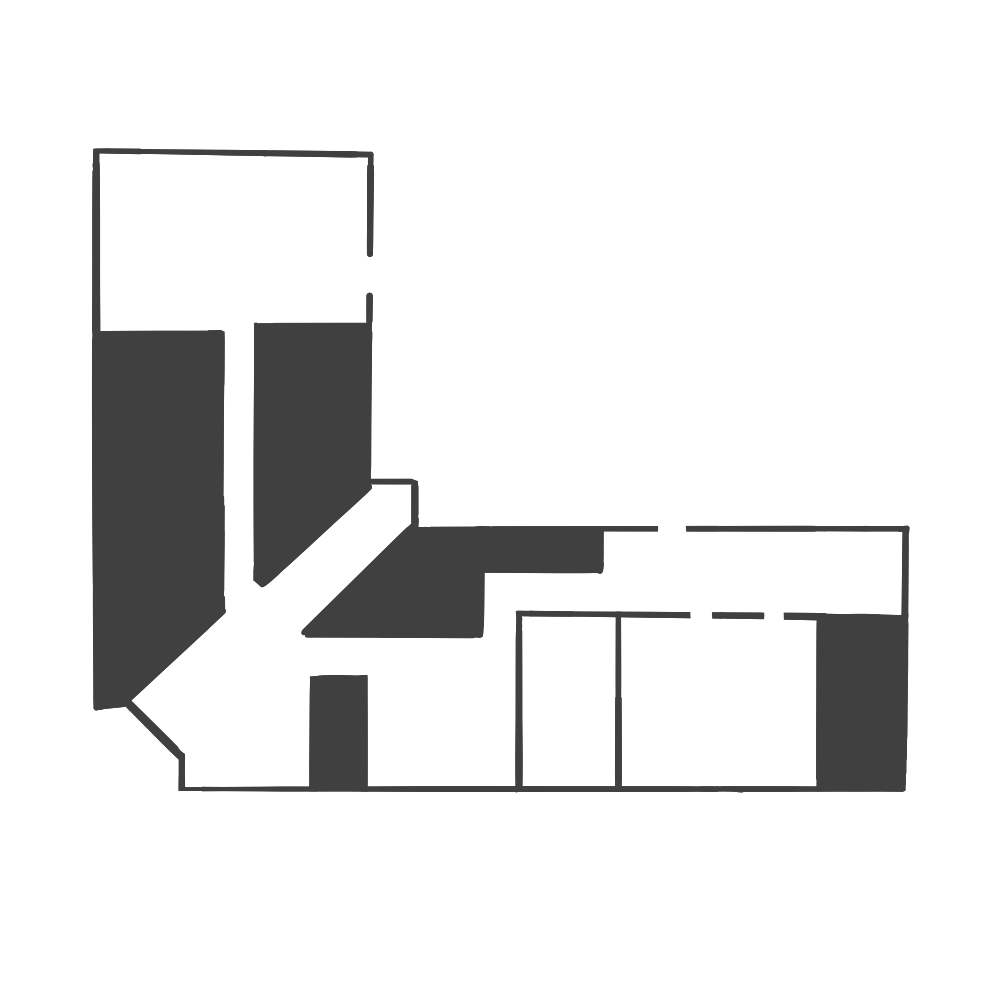
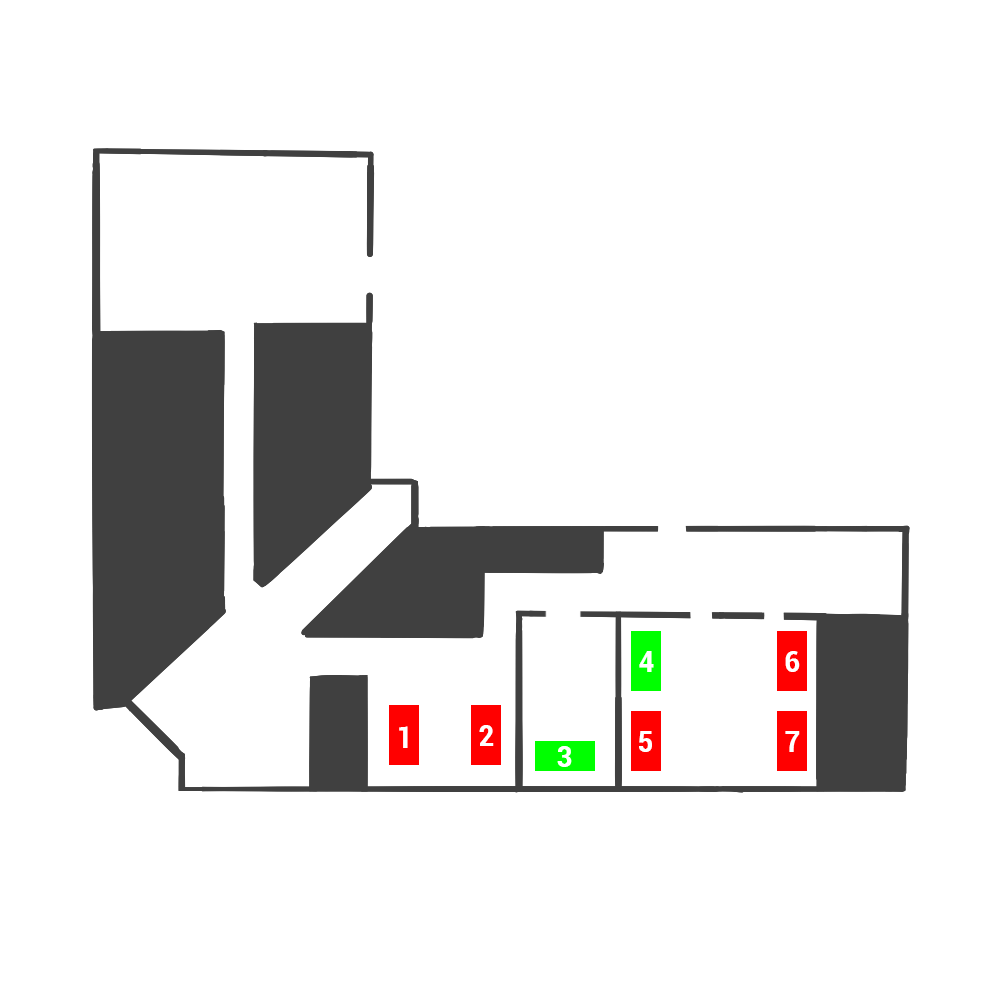
update working sensors

diff --git a/web/src/components/Map.js b/web/src/components/Map.js
@@ -10,7 +10,10 @@ export default class Map extends React.Component {
 		super(props);
 		this.state = {
 			path: null,
-			data: null
+			num1: null,
+			num2: null,
+			num3: null,
+			num4: null
 		};
 		this.onChange = this.onChange.bind(this);
 		this.onAnalize = this.onAnalize.bind(this);
@@ -28,7 +31,10 @@ export default class Map extends React.Component {
 		listSensors().then((_res) => {
 			console.log(_res.data);
 			console.log(_res.data.devices[0].reported.temperature.value);
-			// this.setState({ data: _res.data.devices })
+			this.setState({ num1: _res.data.devices[0].reported.temperature.value })
+			this.setState({ num2: _res.data.devices[1].reported.temperature.value })
+			this.setState({ num3: _res.data.devices[2].reported.temperature.value })
+			this.setState({ num4: _res.data.devices[3].reported.temperature.value })
 		});
 	}
 
@@ -38,26 +44,46 @@ export default class Map extends React.Component {
 				<div>
 					<Link to="/map/density" onClick={()=>{this.onChange('/map/density')}} className={this.state.path === '/map/density' ? 'active' : '' }>Density</Link>
 					<Link to="/map/temperature" onClick={()=>{this.onChange('/map/temperature')}} className={this.state.path === '/map/temperature' ? 'active' : '' }>Temperature</Link>
-					{/* <Link to="/map/space" onClick={()=>{this.onChange('/map/space')}} className={this.state.path === '/map/space' ? 'active' : '' }>Space</Link> */}
+					<Link to="/map/space" onClick={()=>{this.onChange('/map/space')}} className={this.state.path === '/map/space' ? 'active' : '' }>Space</Link>
 				</div>
 				{this.state.path === '/map/temperature' &&
 					<React.Fragment>
 						<span className="map_box">
 							<img id="temperature" src="/../img/map1.png"/>
 						</span>
-						<span className="text">
-
-							<img id="num" src="/../img/num1.png"/>
-							{this.state.data}
+						<span className="text"  className="nums">
+							<span className="num">
+								<img id="num" src="/../img/num1.png"/>
+								{this.state.num1}
+							</span>
+							<span className="num">
+								<img id="num" src="/../img/num2.png"/>
+								{this.state.num2}
+							</span>
+							<span className="num">
+								<img id="num" src="/../img/num3.png"/>
+								{this.state.num3}
+							</span>
+							<span className="num">
+								<img id="num" src="/../img/num4.png"/>
+								{this.state.num4}
+							</span>
 						</span>
 						<span className="btn_block">
 							<button className="btn" onClick={()=>{this.onAnalize()}}>Analize</button>
 						</span>
 					</React.Fragment>
 				}
-				{/* {this.state.path === '/map/space' &&
-					<img  src="/../img/map1.png"/>
-				} */}
+				{this.state.path === '/map/space' &&
+					<React.Fragment>
+						<span className="map_box">
+							<img id="temperature" src="/../img/map2.png"/>
+						</span>
+						<span className="btn_block">
+							<button className="btn disable">Booking</button>
+						</span>
+					</React.Fragment>
+				}
 				{this.state.path === '/map/density' &&
 					<MapDens width="100vw" height="100vh" />
 				}

diff --git a/web/src/components/style.css b/web/src/components/style.css
@@ -265,3 +265,18 @@
     height: auto;
     padding-right: 10px;
 }
+
+.nums {
+    display: flex;
+    justify-content: space-around;
+}
+
+.num {
+    display: flex;
+    justify-content: center;
+    align-items: center;
+}
+
+.disable {
+    background: #58585a;
+}
